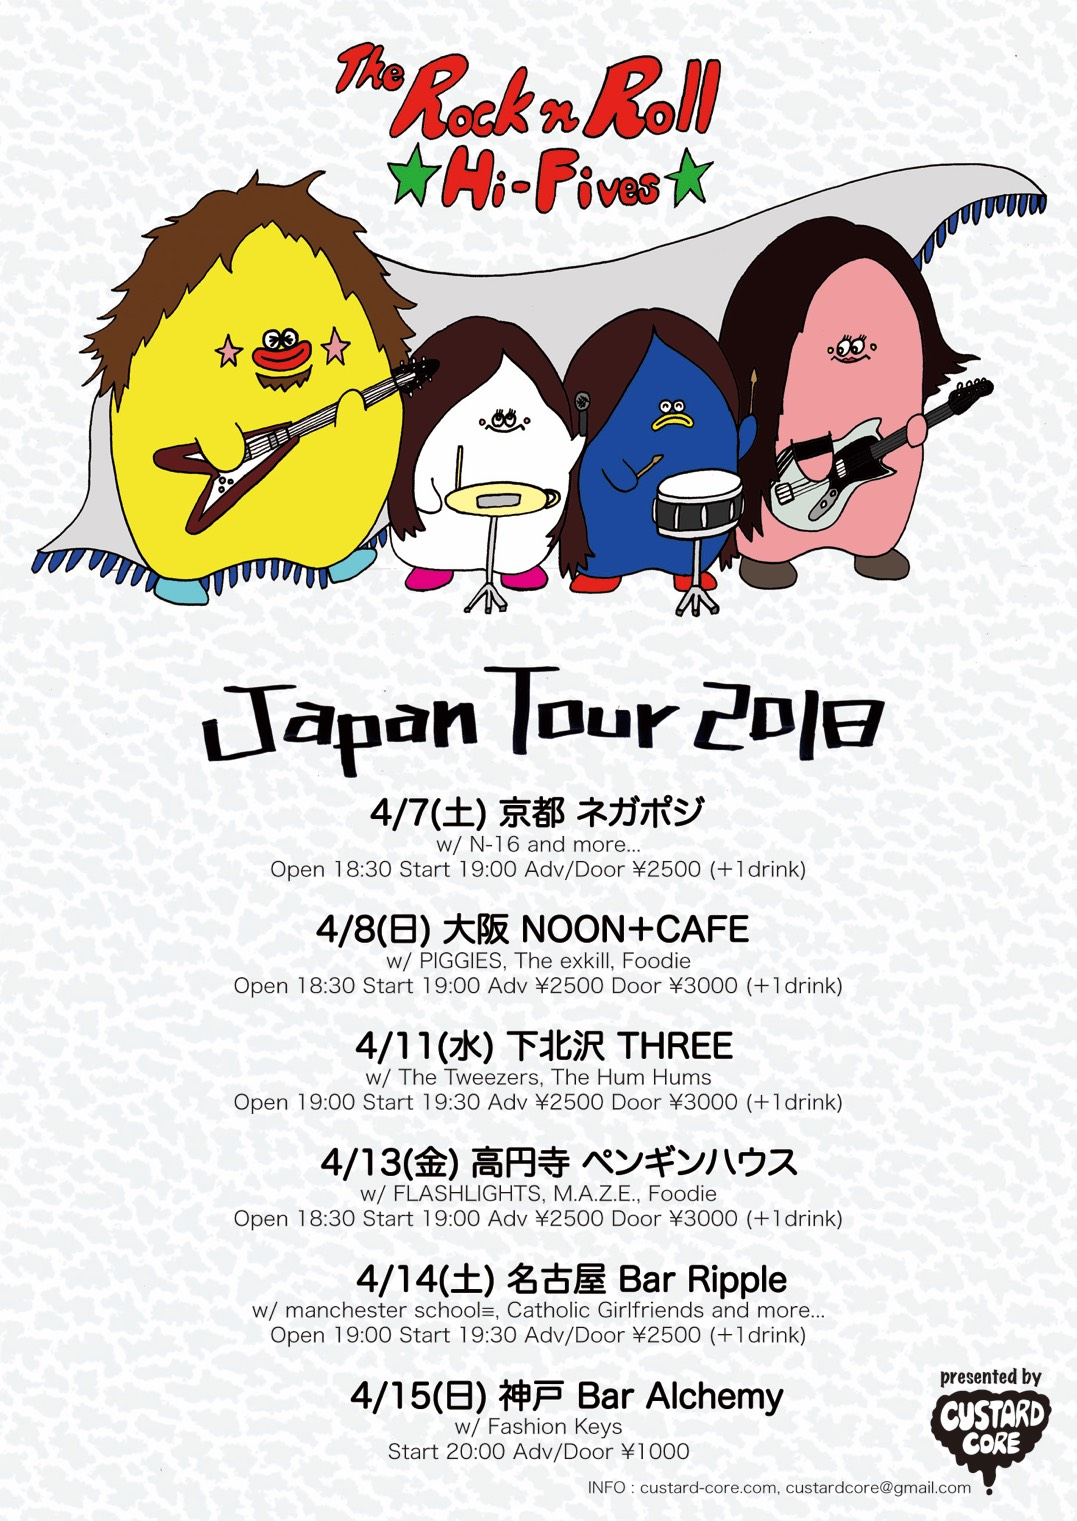
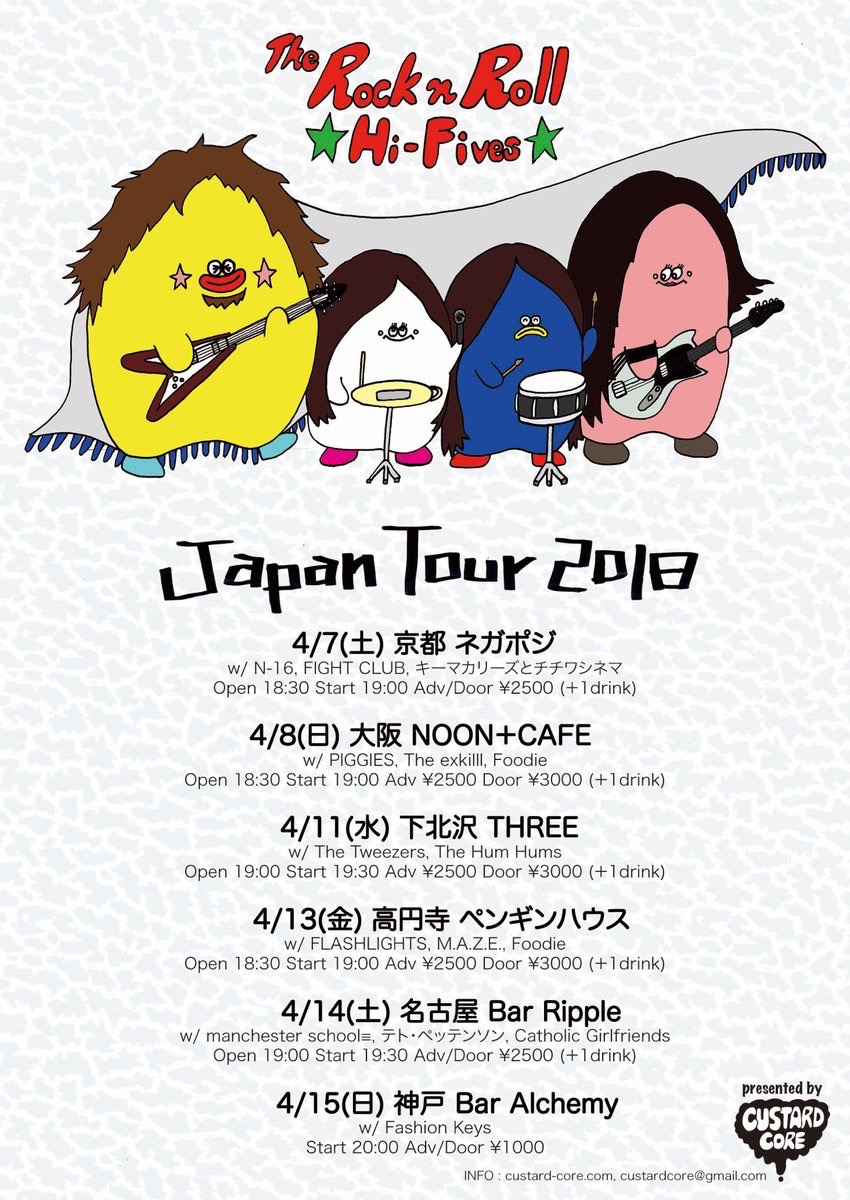
2018-04-07 出演者追加 etc

diff --git a/_System/ContentHolders/Latest News.html b/_System/ContentHolders/Latest News.html
@@ -14,7 +14,7 @@
 				</div>
                 <div class="event_info"><a href="/images/news/20180407.jpg" target="_blank"><img src="/images/news/20180407_light.jpg" align="left" class="news_image" /></a>2018/04/07(土) @<a href="http://www.negaposi.net" target="_blank">西院ネガポジ</a><br />
                 『the RocknRoll Hi-Fives Japan Tour 2018』京都公演<br />
-                出演 : the RocknRoll Hi-Fives, N-16, FIGHT CLUB and more...<br />
+                出演 : the RocknRoll Hi-Fives, N-16, FIGHT CLUB, キーマカリーズとチチワシネマ<br />
                 OPEN : 18:30 / START : 19:00<br />
 				料金 : ADV / DOOR ¥2,500（+1Drink）<br clear=all></div>
 				<p>ん？　１個増えてますね...こちら、また後日改めてお伝えします！　引き続き、情報はホームページ、 <a href="https://twitter.com/_slipper/lists/n-16" target="_blank">Twitter</a>、<a href="https://www.facebook.com/n16n16" target="_blank">facebook</a> などでお知らせします。ライブのお誘い、サポート参加の売り込み・お問合せなどなど、ご連絡はお気軽に movie star records スタッフ（<a href="mailto:staff@movie-star-records.info">staff@movie-star-records.info</a>）まで。ここは普通にオリンピック見て「みんな若いな…」とか思いながら、お待ちしております！</p>

diff --git a/shows.html b/shows.html
@@ -103,7 +103,7 @@
                   <li class="show_list">
                     <div class="event_date">2018-04-07 (Sat)｜ <a href="http://www.negaposi.net" target="_blank">西院ネガポジ</a></div>
                     <div class="event_title">『the RocknRoll Hi-Fives Japan Tour 2018』京都公演</div>
-                    <div class="event_cast">出演 : the RocknRoll Hi-Fives, N-16, FIGHT CLUB and more...<br />
+                    <div class="event_cast">出演 : the RocknRoll Hi-Fives, N-16, FIGHT CLUB, キーマカリーズとチチワシネマ<br />
 					OPEN : 18:30 / START : 19:00<br />
 					料金 : ADV / DOOR ¥2,500（+1Drink）<br clear=all>
 					<a href="/images/news/20180407.jpg" target="_blank"><img src="/images/news/20180407_light.jpg" align="left" class="news_image" /></a><br clear="all"/>

diff --git a/index.html b/index.html
@@ -98,7 +98,7 @@
         
         <section class="eleven columns">
           <div class="rough_box type1">
-            <h1>News</h1>
+            <h1>Latest News</h1>
             <span class="latest_news top3">
               {module_contentholder,name="Latest News"}
             </span>
